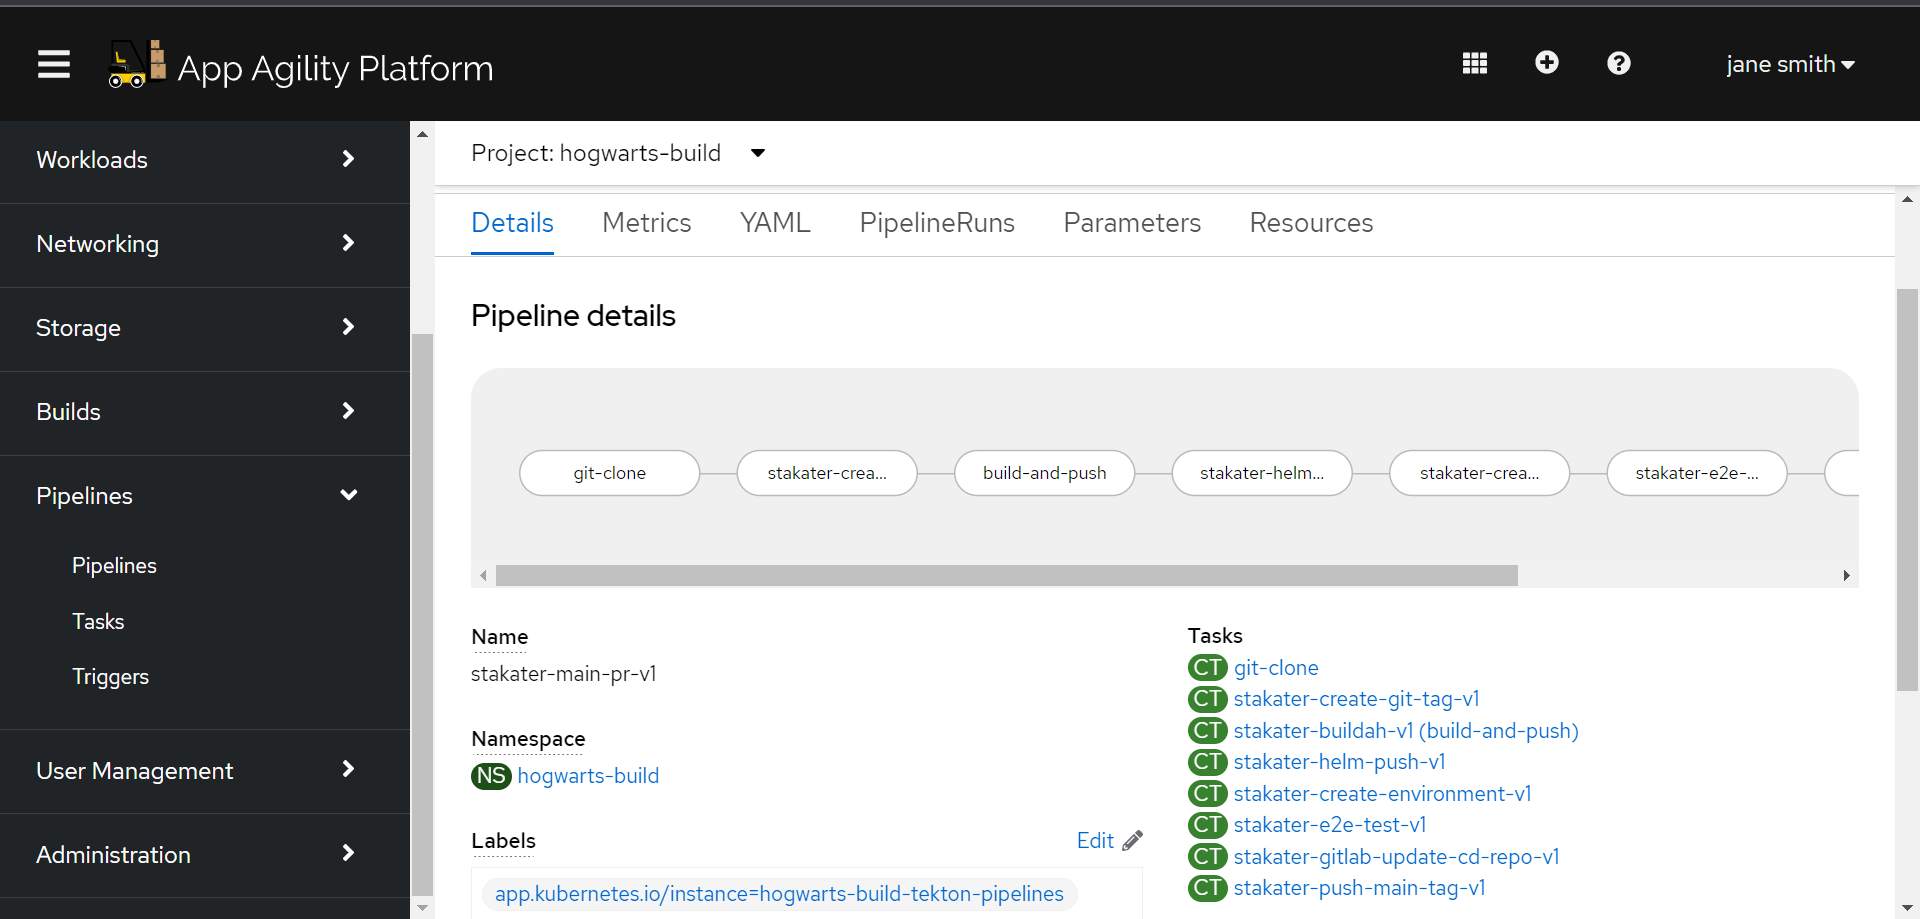
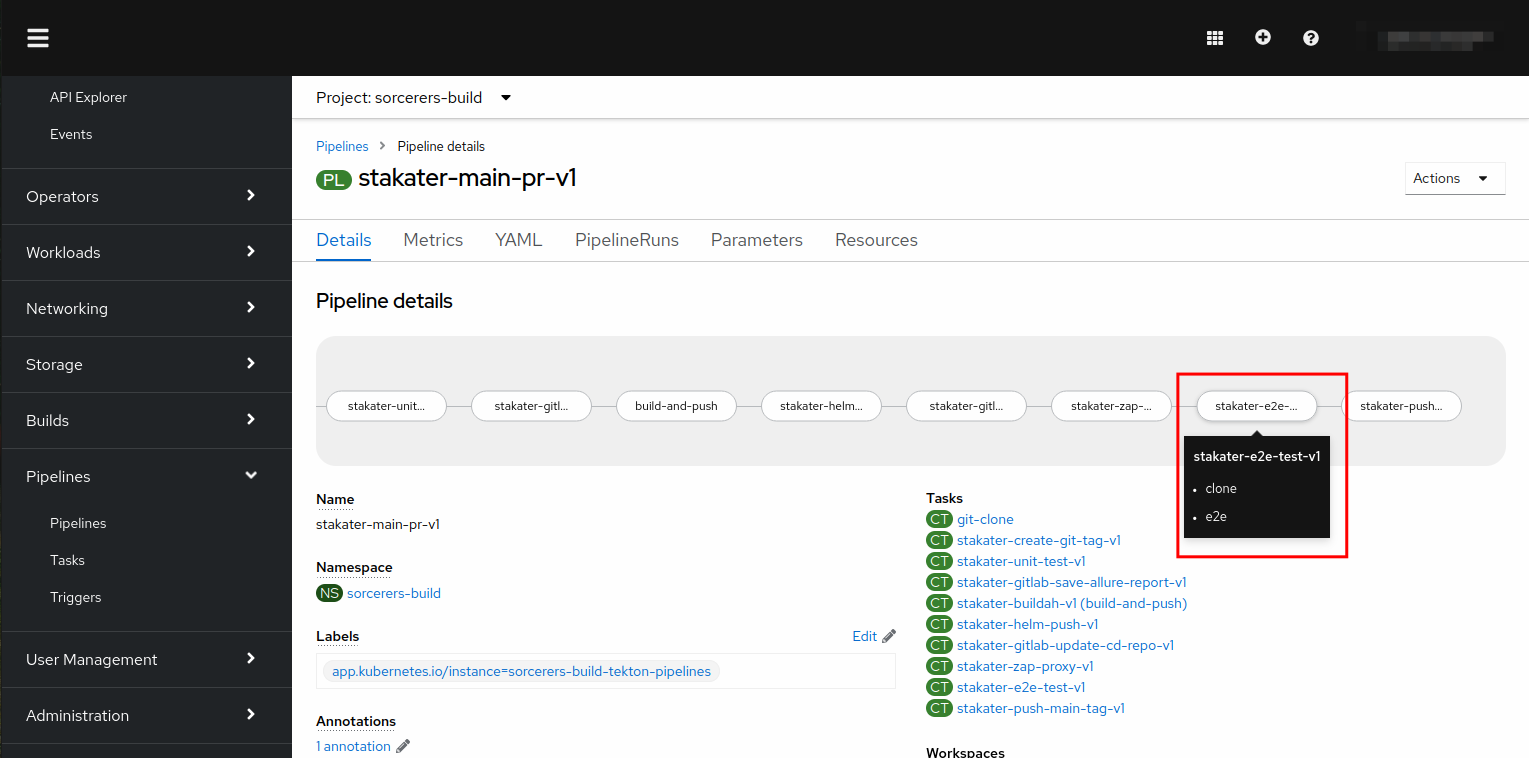
add screenshots in e2e

diff --git a/docs/2-attack-of-the-pipelines/3b-tekton.md b/docs/2-attack-of-the-pipelines/3b-tekton.md
@@ -134,9 +134,9 @@ Firstly, we will be populating the values file for the Tekton pipeline Chart to 
    dependencies:
      - name: pipeline-charts
        repository: https://stakater.github.io/stakater-charts  
-       version: 0.0.34
+       version: 0.0.35
    description: Helm chart for Tekton Pipelines
-   name: main-pr-v1
+   name: stakater-main-pr-v1
    version: 0.0.1
    ```
   > This `Chart.yaml` uses the pipeline chart as a dependency.

diff --git a/docs/3-revenge-of-the-automated-testing/10b-tekton.md b/docs/3-revenge-of-the-automated-testing/10b-tekton.md
@@ -87,4 +87,6 @@ You will use the End-to-End systems tests task shipped with SAAP `stakater-e2e-t
 
 6. You will see the e2e task running.
 
+![e2e-running](./images/e2e-running.png)
+
 You have successfully added End-to-End testing in your pipeline.
